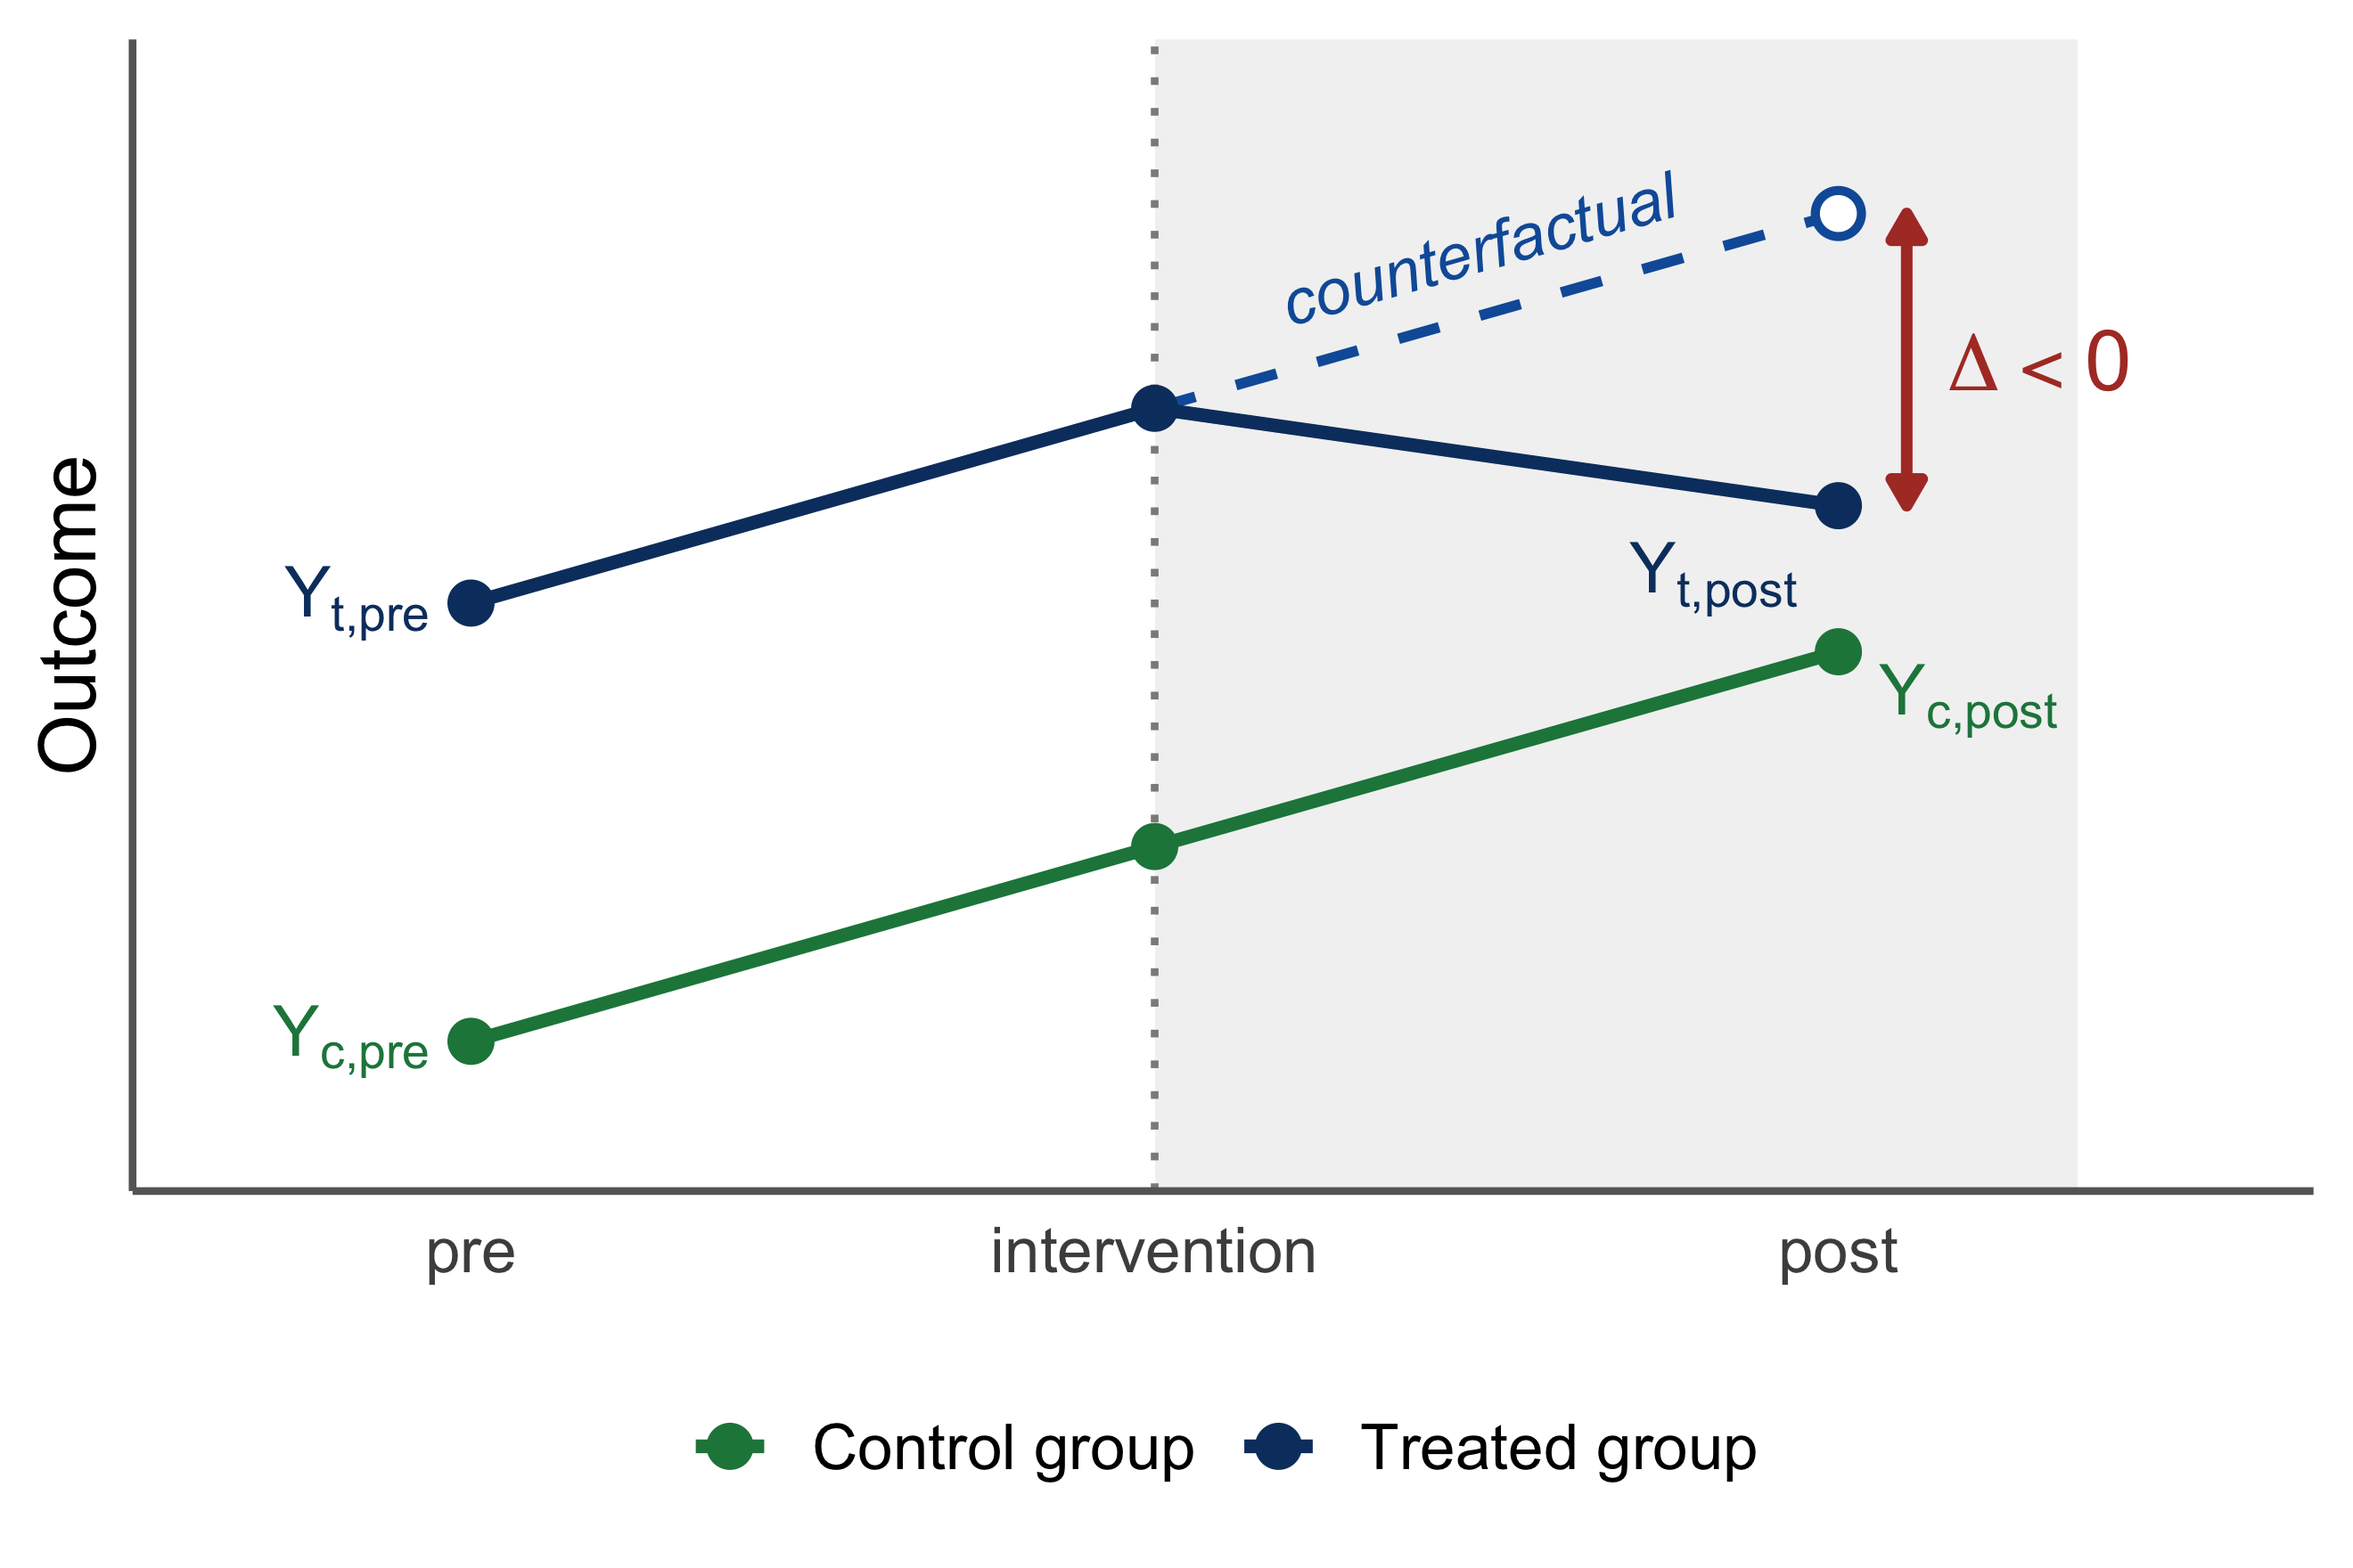
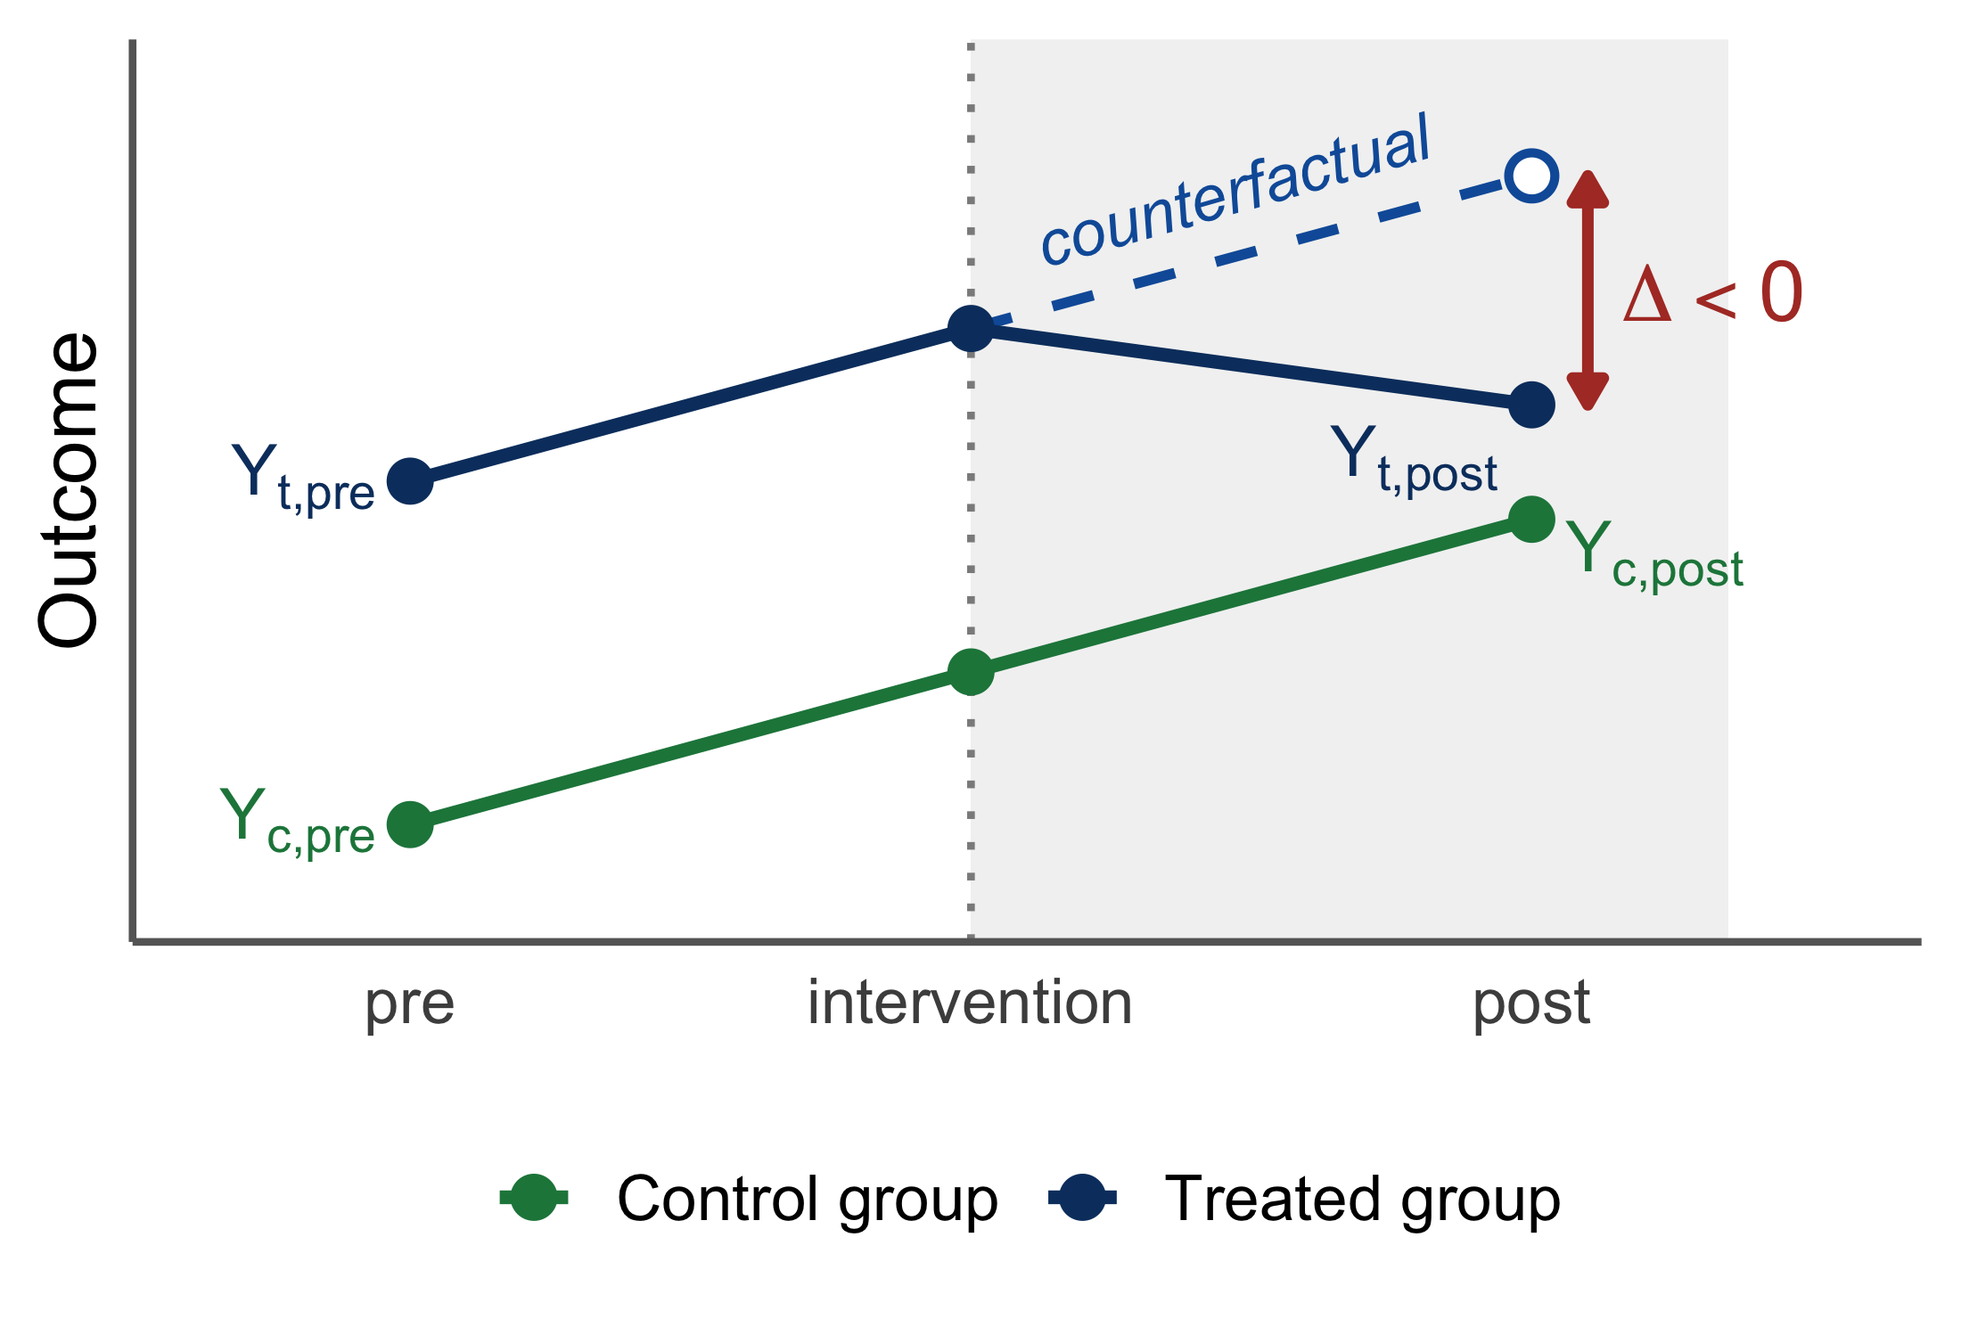
Built site for gh-pages

diff --git a/index.html b/index.html
@@ -240,7 +240,7 @@ ul.task-list li input[type="checkbox"] {
 <section id="welcome" class="level1 unnumbered">
 <h1 class="unnumbered">Welcome!</h1>
 <p>Welcome to the course <strong>Marketing Analytics</strong>! This course covers the conceptual foundations of data analysis for marketing decision-making and the application of these methods to real marketing problems using the statistical software <strong>R</strong>.</p>
-<p>The course is organized around one guiding idea: most questions marketing managers care about are questions about <em>what would happen if we acted</em> — and answering such questions well requires understanding how your data came into being. The chapters on this site develop this idea step by step, from describing data, through quantifying uncertainty, to learning from experiments, observational data, and panel data.</p>
+<p>The course is organized around one guiding idea: most questions marketing managers care about are questions about <em>what would happen if we acted</em> — and answering such questions well requires understanding how your data came into being. The chapters on this site develop this idea step by step, from describing data, through quantifying uncertainty, to learning from experiments and observational data — and to understanding why and for whom effects occur.</p>
 <p>Each chapter opens with a real marketing decision, develops the concepts with simulated and real examples, shows the implementation in R with commented code, and closes with a learning check. Technical details are available in collapsible “Under the hood” boxes — read them when you want depth; skip them on first reading.</p>
 <p>This website accompanies the in-person sessions: work through the assigned chapter <em>after</em> each session to consolidate, and use the R onboarding module <em>before</em> the second session to set up your environment.</p>
 <p>If you have any questions, feel free to send me a short email.</p>

diff --git a/01-foundations.html b/01-foundations.html
@@ -1341,7 +1341,7 @@ Table&nbsp;1.5: The spectrum of research designs
 <div id="fig-spotify-cross" class="quarto-float quarto-figure quarto-figure-center anchored">
 <figure class="quarto-float quarto-float-fig figure">
 <div aria-describedby="fig-spotify-cross-caption-0ceaefa1-69ba-4598-a22c-09a6ac19f8ca">
-<img src="01-foundations_files/figure-html/fig-spotify-cross-1.png" class="img-fluid figure-img" width="1000">
+<img src="01-foundations_files/figure-html/fig-spotify-cross-1.png" class="img-fluid figure-img" width="800">
 </div>
 <figcaption class="quarto-float-caption-bottom quarto-float-caption quarto-float-fig" id="fig-spotify-cross-caption-0ceaefa1-69ba-4598-a22c-09a6ac19f8ca">
 Figure&nbsp;1.18: Monthly spending on CDs and downloads of Spotify users and non-users, observed at one point in time (stylized figures after Wlömert &amp; Papies, 2016).
@@ -1378,7 +1378,7 @@ Figure&nbsp;1.19: Cross-sectional vs.&nbsp;longitudinal design: a snapshot at on
 <div id="fig-did-stylized" class="quarto-float quarto-figure quarto-figure-center anchored">
 <figure class="quarto-float quarto-float-fig figure">
 <div aria-describedby="fig-did-stylized-caption-0ceaefa1-69ba-4598-a22c-09a6ac19f8ca">
-<img src="01-foundations_files/figure-html/fig-did-stylized-1.png" class="img-fluid figure-img" width="1320">
+<img src="01-foundations_files/figure-html/fig-did-stylized-1.png" class="img-fluid figure-img" width="1100">
 </div>
 <figcaption class="quarto-float-caption-bottom quarto-float-caption quarto-float-fig" id="fig-did-stylized-caption-0ceaefa1-69ba-4598-a22c-09a6ac19f8ca">
 Figure&nbsp;1.20: The logic of difference-in-differences (stylized, after Varian, 2016). Here the treatment effect is negative: the treated group ends up below its counterfactual.
